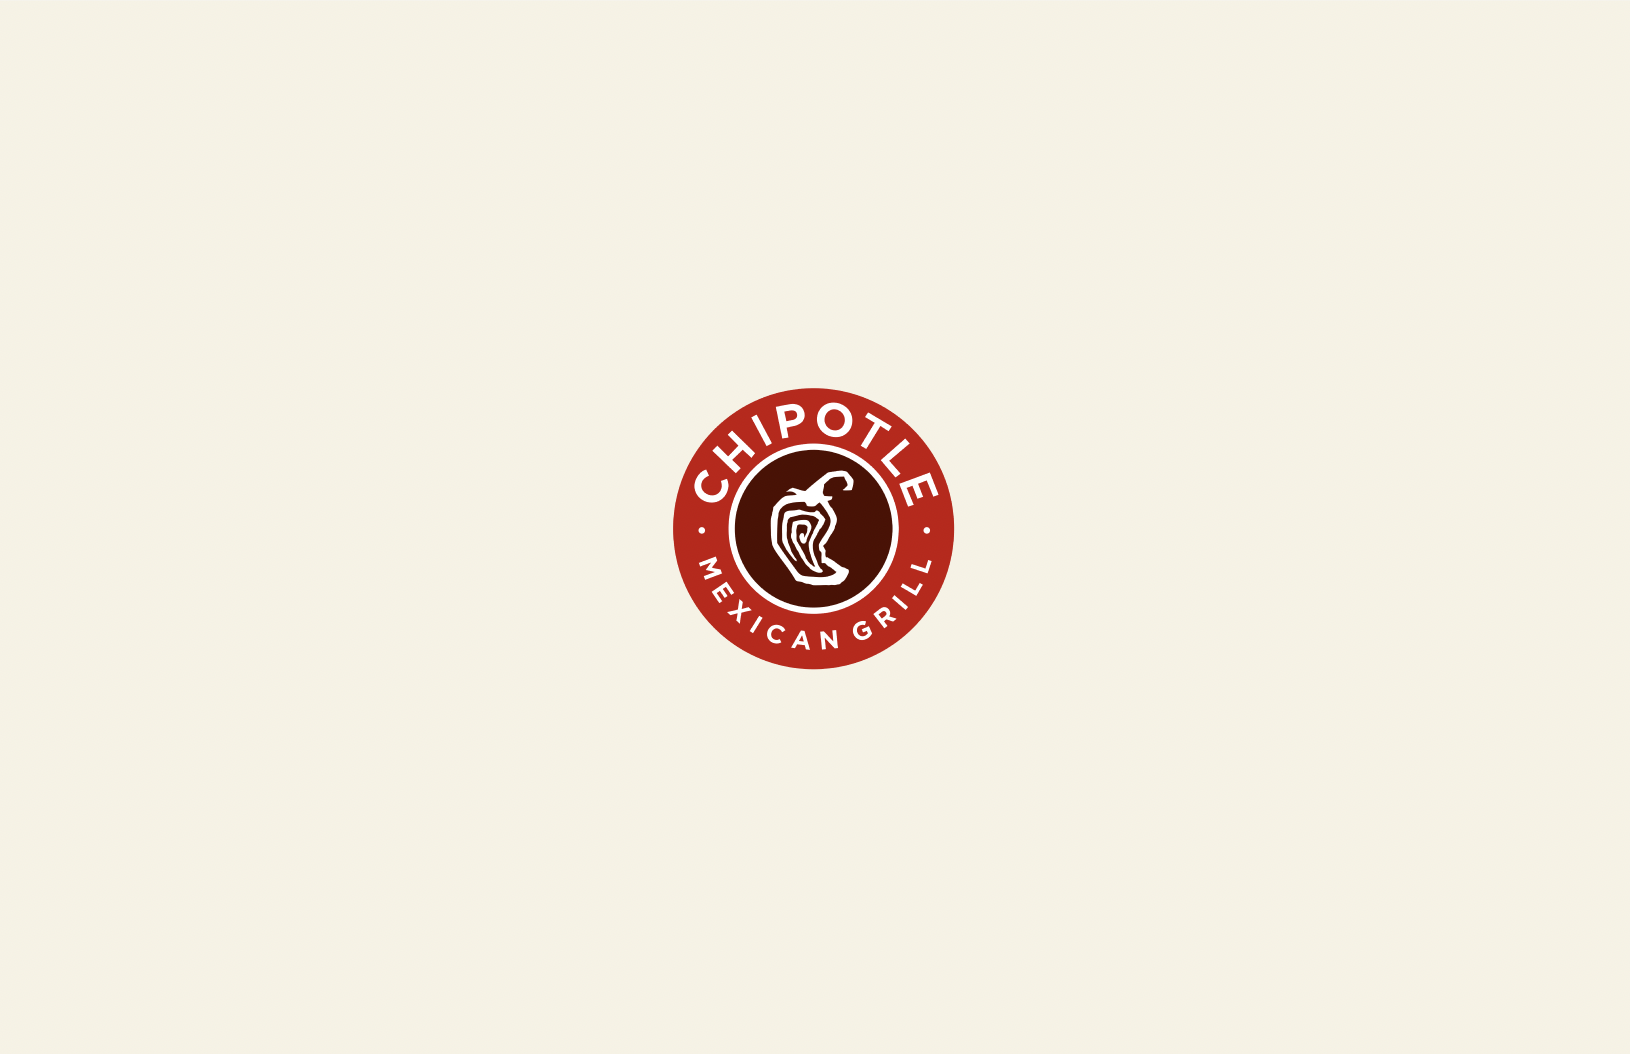
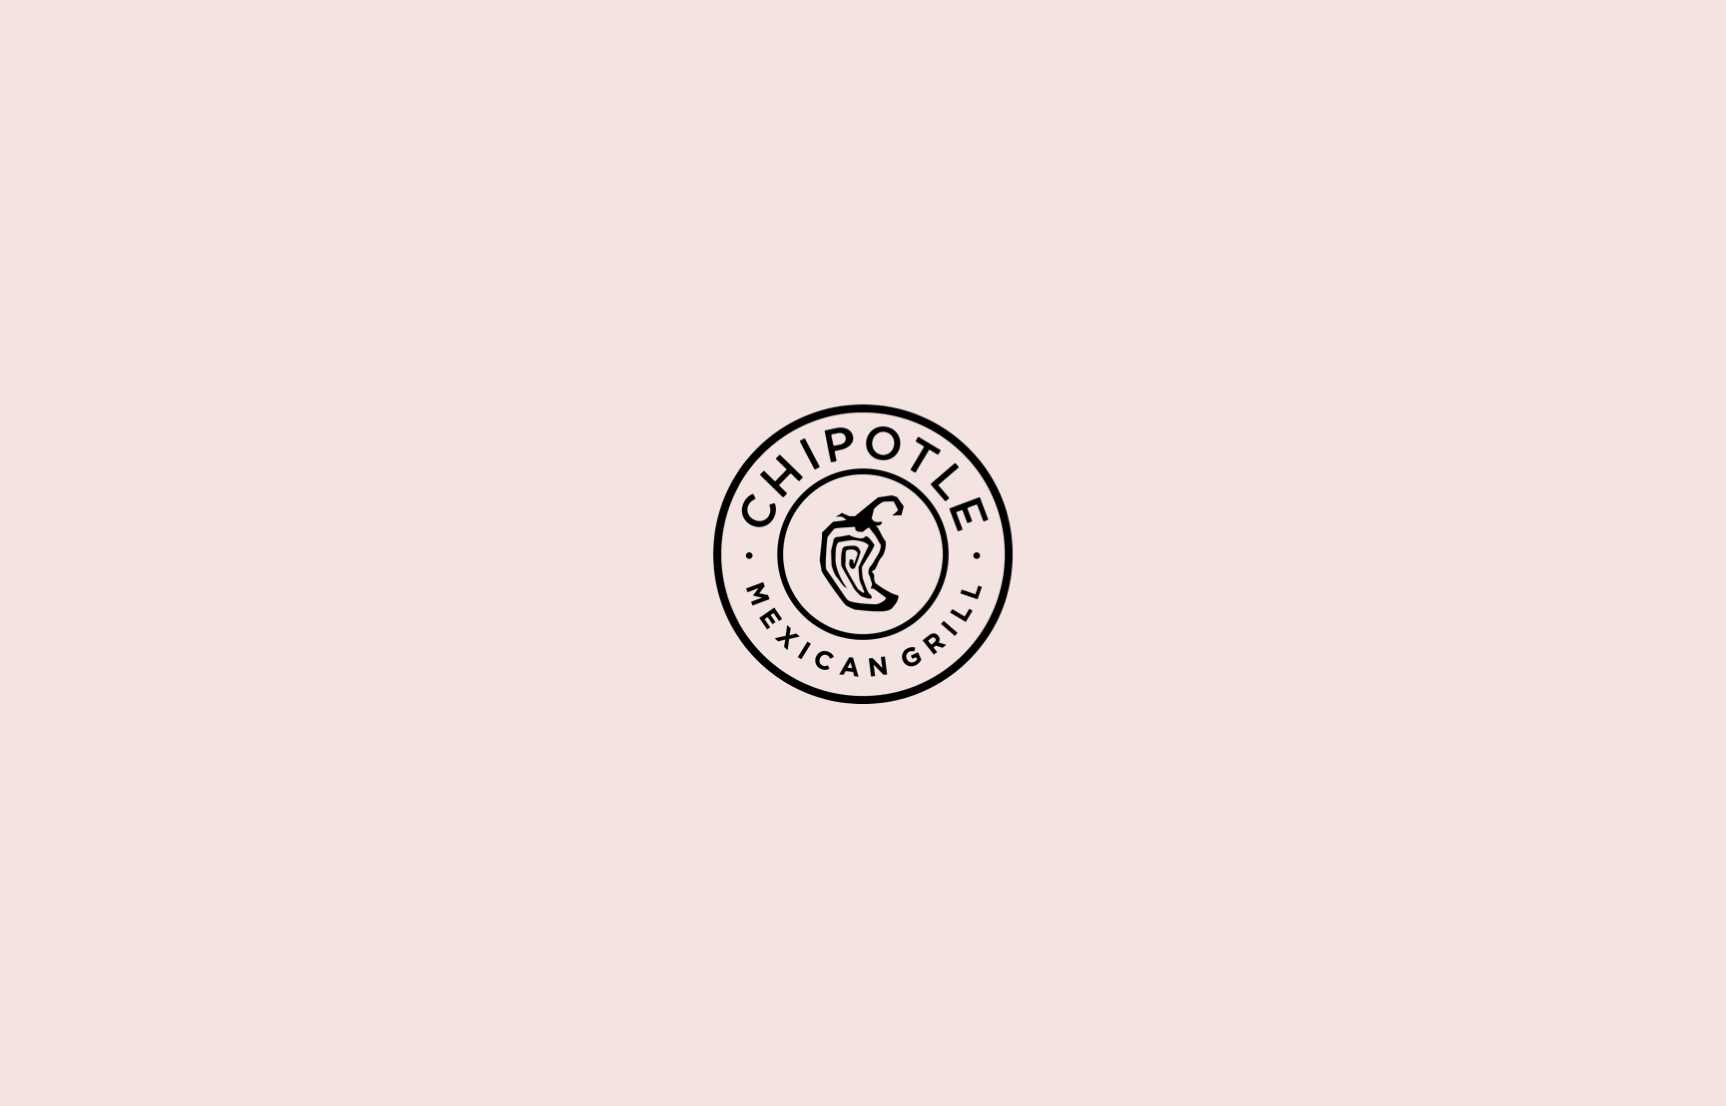
updated post's deck

Changed region(s): [[0.3988, 0.3643, 0.6135, 0.6376]]

diff --git a/proj_chipotle.html b/proj_chipotle.html
@@ -141,7 +141,7 @@
 					<div class="row justify-content-center">
 						<div class="col-lg-10 col-lg-7 entries">
 							<article class="entry entry-single">
-								<h2 class="title1" style="color: #346BF3">The Washington Post</h2>
+								<h2 class="title1" style="color: #346BF3">Chipotle</h2>
 
 								<h2 class="subtitle1"> CONTENT STRATEGY </h2>
 
@@ -199,7 +199,7 @@
 											<a class="about-link2" href="https://www.figma.com/file/ACZ0s3scQi8bZ1QPJ2NfIR/Portfolio---The-Washington-Post?node-id=4%3A6&t=WlnMnhdbNBVclya8-1" target="_blank" > Figma Work </a>
 											<br />
 
-											<a class="about-link2" href="https://drive.google.com/file/d/1Zmph9YTb76YHA6EjyMTkKHQmqYHsQFZB/view?usp=share_link" target="_blank" > Process Deck </a>
+											<a class="about-link2" href="https://drive.google.com/file/d/12VJiyfaPLubxKGMzJOmmDMFZNw6WzGw1/view" target="_blank" > Process Deck </a>
 											<br />
 
 
@@ -732,7 +732,7 @@
 
 										<a class="entry-buttons3" href="https://www.figma.com/file/ACZ0s3scQi8bZ1QPJ2NfIR/Portfolio---The-Washington-Post?type=design&node-id=4-6" target="_blank" >FIGMA WORK</a >
 
-										<a class="entry-buttons3" href="https://drive.google.com/file/d/1Zmph9YTb76YHA6EjyMTkKHQmqYHsQFZB/view?usp=share_link" target="_blank" > PROCESS DECK </a>
+										<a class="entry-buttons3" href="https://drive.google.com/file/d/12VJiyfaPLubxKGMzJOmmDMFZNw6WzGw1/view?usp=share_link" target="_blank" > PROCESS DECK </a>
 									</div>
 								</div>
 							</article>
